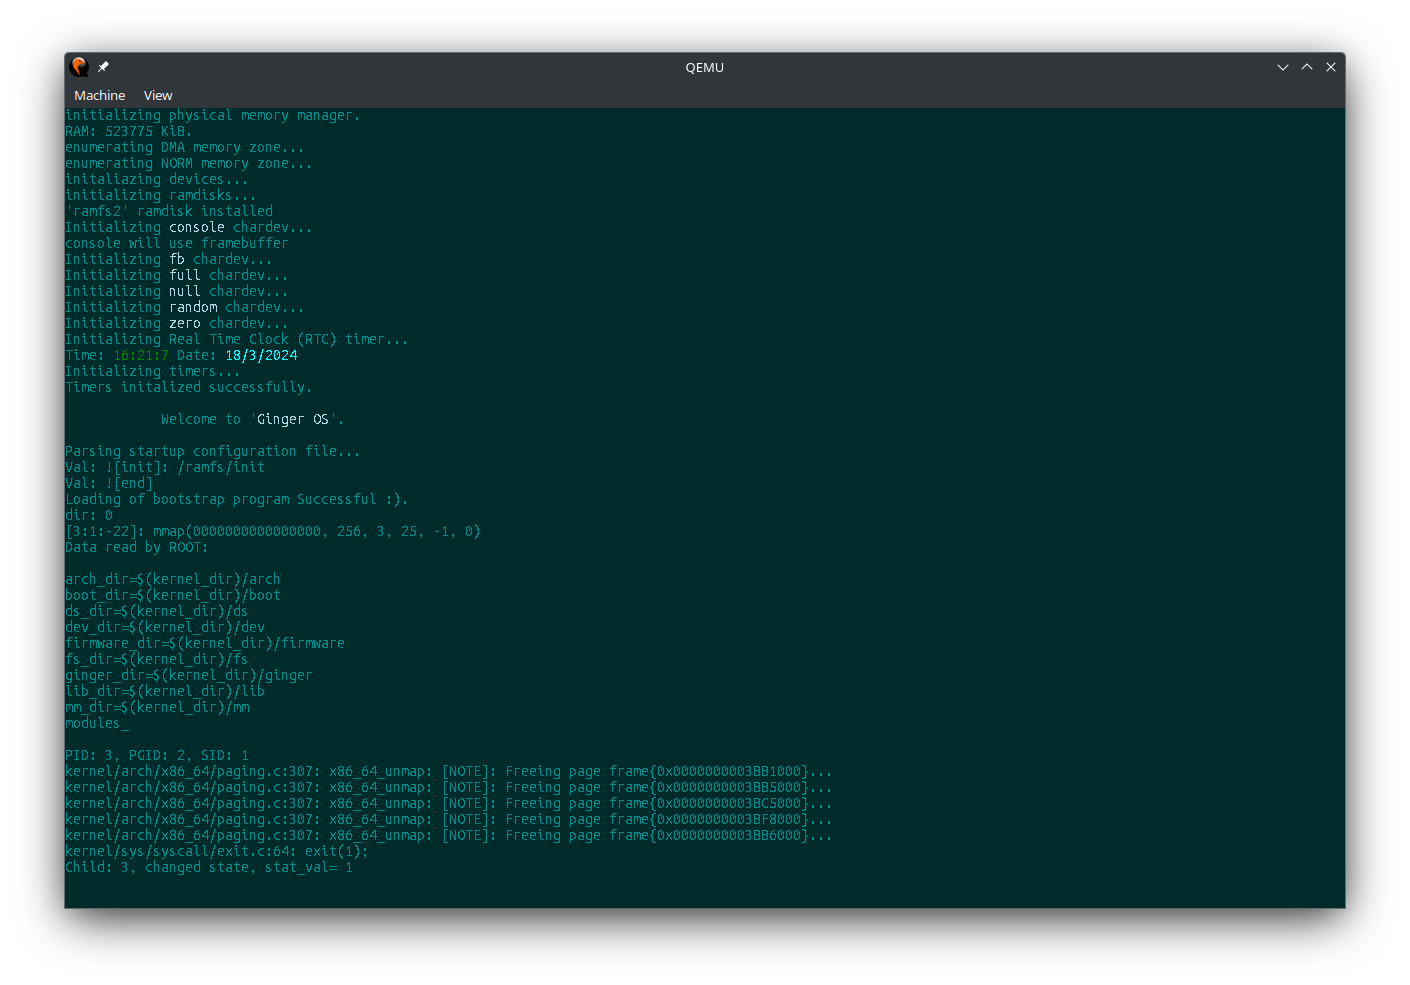
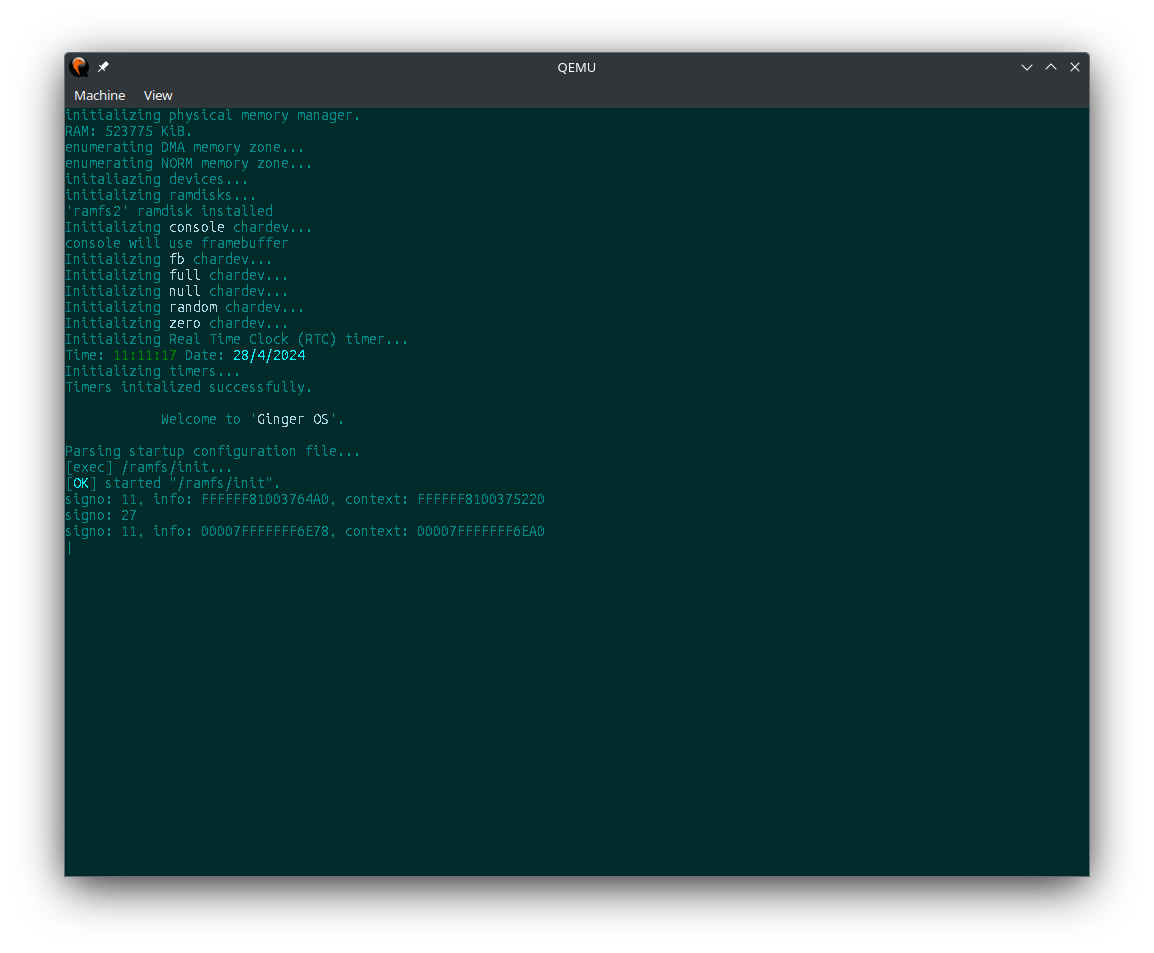
Signal handler initialization on point ;)

Changed region(s): [[0.0312, 0.0304, 0.9671, 0.9433], [0.4367, 0.5477, 0.4679, 0.5782], [0.4055, 0.5173, 0.4367, 0.5477]]

diff --git a/usr/app/init.c b/usr/app/init.c
@@ -1,75 +1,73 @@
 #include <api.h>
 
 void signal_handler(int signo) {
-    printf(
-        "[pid: %d, tid: %d]"
-        " signo: %d\n",
-        sys_getpid(),
-        sys_thread_self(),
-        signo
-    );
-    // loop();
-
+    printf("signo: %d\n", signo);
 }
 
-void sa_sigaction(int signo, siginfo_t *info, void *context) {
-    printf("signo %d, info: %p, ctx:  %p, pid:  %d\n",
-        signo, info, context, info->si_pid
-    );
-    // loop();
-} 
+void sa_sigaction(int signo, siginfo_t *info, void *uctx) {
+    printf("signo: %d, info: %p, context: %p\n", signo, info, uctx);
+}
 
-void *test(tid_t tid) {
-    
+void test_signal(tid_t tid) {
     int         err = 0;
-    sigset_t    set = 0;
     sigaction_t act = {0};
+    sigaction_t oact = {0};
 
-    sigemptyset(&set);
+    sigemptyset(&act.sa_mask);
+    sigfillset(&act.sa_mask);
+    sigdelset(&act.sa_mask, SIGSTOP);
+    sigdelset(&act.sa_mask, SIGKILL);
+    sigdelset(&act.sa_mask, SIGINT);
 
-    act.sa_flags        = 0;
-    act.sa_mask         = set;
-    act.sa_handler      = (sigfunc_t)signal_handler;
+    act.sa_handler  = NULL;
+    act.sa_flags    = SA_SIGINFO;
+    act.sa_sigaction= sa_sigaction;
+    err = sys_sigaction(SIGINT, &act, &oact);
 
-    assert_msg(!(err = sys_sigaction(SIGINT, &act, NULL)),
-        "sigaction failed, err = %d", err);
+    assert_msg(
+        err == 0,
+        "%s:%d: Failed to set signal action, error: %d\n",
+        __FILE__, __LINE__, err
+    );
 
-    act.sa_handler      = NULL;
-    act.sa_flags        = SA_SIGINFO;
-    act.sa_sigaction    = sa_sigaction;
-    assert_msg(!(err = sys_sigaction(SIGUSR1, &act, NULL)),
-        "sigaction failed, err = %d", err);
+    sigaddset(&act.sa_mask, SIGINT);
+    sigdelset(&act.sa_mask, SIGUSR1);
 
-    assert_msg(!(err = sys_sigaction(SIGUSR2, &act, NULL)),
-               "sigaction failed, err = %d", err);
+    act.sa_flags     = 0;
+    act.sa_sigaction = NULL;
+    act.sa_handler   = signal_handler;
+    err = sys_sigaction(SIGUSR1, &act, &oact);
 
-    assert_msg(!(err = sys_sigaction(SIGTRAP, &act, NULL)),
-               "sigaction failed, err = %d", err);
-    
+    assert_msg(
+        err == 0,
+        "%s:%d: Failed to set signal action, error: %d\n",
+        __FILE__, __LINE__, err
+    );
+
     sys_unpark(tid);
+
     loop();
 }
 
-
-void startxxx(void) {
+void main(void) {
+    int     err = 0;
     tid_t   tid = 0;
-    sys_thread_create(
-        &tid, NULL, (void *)test,
-        (void *)((long)sys_thread_self()));
+
+    err = sys_thread_create(
+        &tid,
+        NULL,
+        (void *)test_signal,
+        (void *)(long)sys_thread_self()
+    );
+
+    assert_msg(
+        err == 0,
+        "%s:%d: Failed to create thread, error: %d",
+        __FILE__, __LINE__, err
+    );
 
     sys_park();
-
-    sys_pthread_kill(tid, SIGINT);
-    sys_pthread_kill(tid, SIGINT);
-    sys_pthread_kill(tid, SIGTRAP);
     sys_pthread_kill(tid, SIGUSR1);
-    sys_pthread_kill(tid, SIGUSR2);
-
-    printf("At the end of main();\n");
-
-}
-
-void main (void) {
-    
+    sys_pthread_kill(tid, SIGINT);
     loop();
 }

diff --git a/kernel/arch/x86_64/traps.c b/kernel/arch/x86_64/traps.c
@@ -157,17 +157,11 @@ void trap(ucontext_t *uctx) {
 
     if (current_iskilled())
         thread_exit(-EINTR);
-
-    current_lock();
-    if (current_testflags(THREAD_STOP))
-        thread_stop(current, sched_stopq);
-    current_unlock();
-
+    
     pushcli();
     if ((current_isuser() && uctx_isuser(uctx)) || !current_isuser())
         dispatch_signal();
     popcli();
-
 
     current_lock();
     time = current->t_sched.ts_timeslice;

diff --git a/kernel/sys/signal.c b/kernel/sys/signal.c
@@ -204,12 +204,8 @@ int pthread_kill(tid_t tid, int signo) {
     if (SIGBAD(signo))
         return -EINVAL;
 
-    current_tgroup_lock();
-    if ((err = tgroup_get_thread(current_tgroup(), tid, 0, &thread))) {
-        current_tgroup_unlock();
+    if ((err = thread_get(tid, &thread)))
         return err;
-    }
-    current_tgroup_unlock();
 
     if (signo == 0) {
         thread_unlock(thread);

diff --git a/kernel/sys/thread.c b/kernel/sys/thread.c
@@ -332,9 +332,9 @@ void thread_yield(void) {
 }
 
 int thread_enqueue(queue_t *queue, thread_t *thread, queue_node_t **rnode) {
-    int err = 0;
-    queue_node_t *node = NULL;
-    
+    int             err     = 0;
+    queue_node_t    *node   = NULL;
+
     if (!thread)
         return -EINVAL;
 

diff --git a/kernel/test/test_threads.c b/kernel/test/test_threads.c
@@ -20,7 +20,7 @@ void test_signal(void) {
     assert(err == 0, "Failed to set signal action!!!");
 
     cond_signal(condvar);
-    loop() thread_yield();
+    loop();
 }
 
 void test_main(void) {
